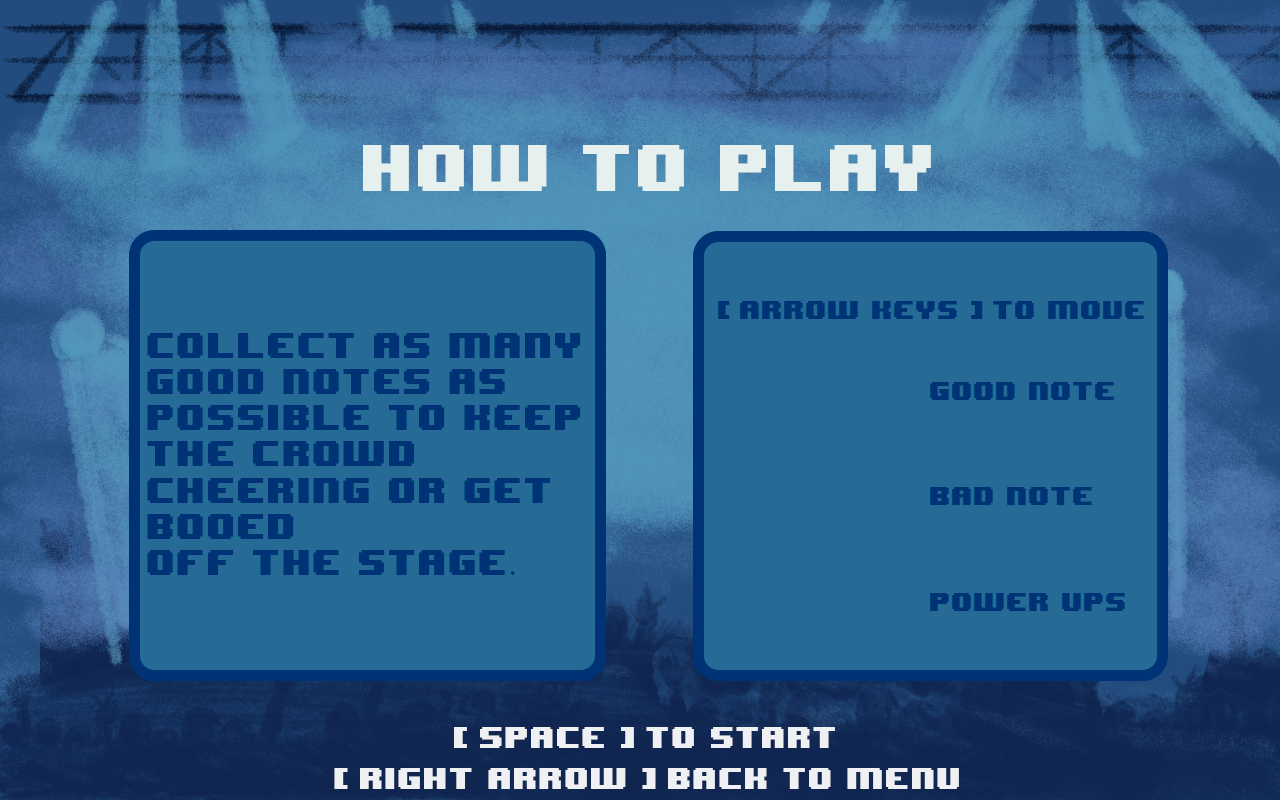
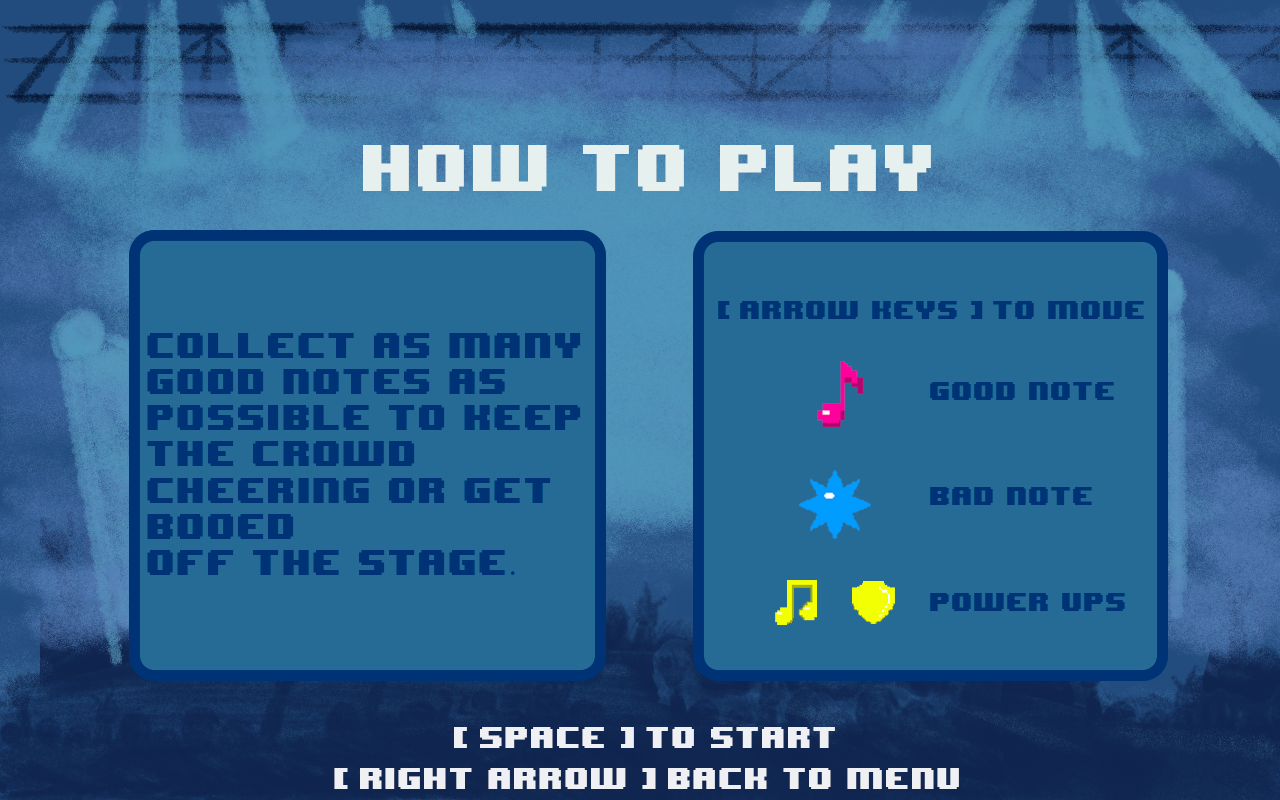
added assets, fixed the assesspoints function

Changed region(s): [[0.5938, 0.7188, 0.7188, 0.7812], [0.625, 0.5938, 0.6875, 0.6875], [0.625, 0.4375, 0.6875, 0.5312]]

diff --git a/src/scenes/Play.js b/src/scenes/Play.js
@@ -37,19 +37,20 @@ class Play extends Phaser.Scene {
         this.moveSpeed = 5; // guitar pick moving speed
 
         // cheer bar variables
-        this.barStatus = 1;
+        this.barStatus = 0;                 // current frame bar is on
+        this.badNoteCount = 0;              // current count of player hitting bad note
         
     }
 
     // PHASER SCENE PRELOAD METHOD
     preload() {
         this.load.image('guitar-body', './assets/tinified/test-guitar-body.png'); // 'GUITAR BODY' W: 741 px, H: 741 px
-        this.load.image('guitar-neck', './assets/tinified/test-guitar-neck2.png'); // 'GUITAR NECK' W: 1200 px, H: 370 px, fret spacing: 300 px
-        this.load.image('guitar-pick', './assets/tinified/test-guitar-pick.png'); // 'GUITAR PICK' W: 50 px, H: 50 px
-        this.load.image('good-note', './assets/tinified/test-good-note.png'); // 'GOOD NOTE' W: 50 px, H: 50 px
-        this.load.image('bad-note', './assets/tinified/test-bad-note.png'); // 'BAD NOTE' W: 50 px, H: 50 px
+        this.load.image('guitar-neck', './assets/G_Neck.png'); // 'GUITAR NECK' W: 1200 px, H: 370 px, fret spacing: 300 px
+        this.load.image('guitar-pick', './assets/Pick_Sprite_1.png'); // 'GUITAR PICK' W: 50 px, H: 50 px
+        this.load.image('good-note', './assets/Good_Note.png'); // 'GOOD NOTE' W: 50 px, H: 50 px
+        this.load.image('bad-note', './assets/Bad_Note.png'); // 'BAD NOTE' W: 50 px, H: 50 px
         this.load.image('powerup-note', './assets/tinified/test-powerup-note.png'); // 'POWERUP NOTE' W: 50 px, H: 50 px
-        this.load.spritesheet('bar', './assets/bar.png', {frameWidth: 400, frameHeight: 100, startFrame: 0, endFrame: 4}); // 'BAR' W: 400 pc, H; 100 px
+        this.load.spritesheet('bar', './assets/Bar-Sheet.png', {frameWidth: 400, frameHeight: 100, startFrame: 0, endFrame: 16}); // 'BAR' W: 400 pc, H; 100 px
     }
 
     // PHASER SCENE CREATE METHOD
@@ -146,8 +147,8 @@ class Play extends Phaser.Scene {
             color: '#000000',
             align: 'center',
             padding: {
-                top: 5,
-                bottom: 5,
+                top: 10,
+                bottom: 10,
             },
             fixedWidth: 100
         }
@@ -155,18 +156,18 @@ class Play extends Phaser.Scene {
         this.gameTimer = this.time.addEvent(this.gameTimerConfig);
         
         // display time
-        this.timeLeft = this.add.text(20, 20, this.gameTimeElapsed + " secs", 
+        this.timeLeft = this.add.text(20, 40, this.gameTimeElapsed + " secs", 
         displayConfig);
 
         // player score
         this.playerScore = 0;
 
         // display score 
-        this.scoreCenter = this.add.text(580, 20,     
+        this.scoreCenter = this.add.text(580, 40,     
         this.playerScore, displayConfig);
 
         // cheer bar setup 
-        this.cheerbar = this.add.sprite(1100, 50, 'bar', 0).setOrigin(0.5);
+        this.cheerbar = this.add.sprite(1085, 60, 'bar', 0).setOrigin(0.5);
         console.log("current frame: " + this.cheerbar.texture.frameTotal);
         //this.cheerbar.visible = false;
         //this.cheerbar.setFrame();
@@ -194,8 +195,7 @@ class Play extends Phaser.Scene {
 
     // assess if points should be applied
     assessPoints(pick, note) {
-        if (!pick.isInv ||
-            pick.isInv && note.isGood)
+        if (pick.isInv && note.isGood)
             return note.points;
         else
             return 0;

diff --git a/src/scenes/Menu.js b/src/scenes/Menu.js
@@ -10,36 +10,11 @@ class Menu extends Phaser.Scene {
 
     create(){
         this.add.sprite(640,400, 'menu').setOrigin(0.5);
-        //this.scene.start("playScene");
-        // just a temp config for the menu for now
-        // let menuConfig = {
-        //     fontFamily: 'Helvetica',
-        //     fontSize: '28px',
-        //     backgroundColor: '#FFFFFF',
-        //     color: '#0047ab',
-        //     align: 'right',
-        //     padding: {
-        //         top: 5,
-        //         bottom: 5,
-        //     },
-        //     fixedWidth: 0
-        // }
-
-        // temporary menu text
-        // this.add.text(640, 400, 'Endless Strummer', menuConfig).setOrigin(0.5);
-        // this.add.text(640, 480, 'press space to start', menuConfig).setOrigin(0.5);
-        // this.add.text(640, 560, 'press ← for how to play', menuConfig).setOrigin(0.5);
-
+       
         // defining keys
         keySPACE = this.input.keyboard.addKey(Phaser.Input.Keyboard.KeyCodes.SPACE);
         keyLt = this.input.keyboard.addKey(Phaser.Input.Keyboard.KeyCodes.LEFT);
 
-        // animation config
-        // this.anims.create({
-        //     key: 'show', 
-        //     frames: this.anims.generateFrameNumbers('title', {start: 0, end: 149, first: 0}),
-        //     frameRate: 40
-        // });
     }
 
     update(){
